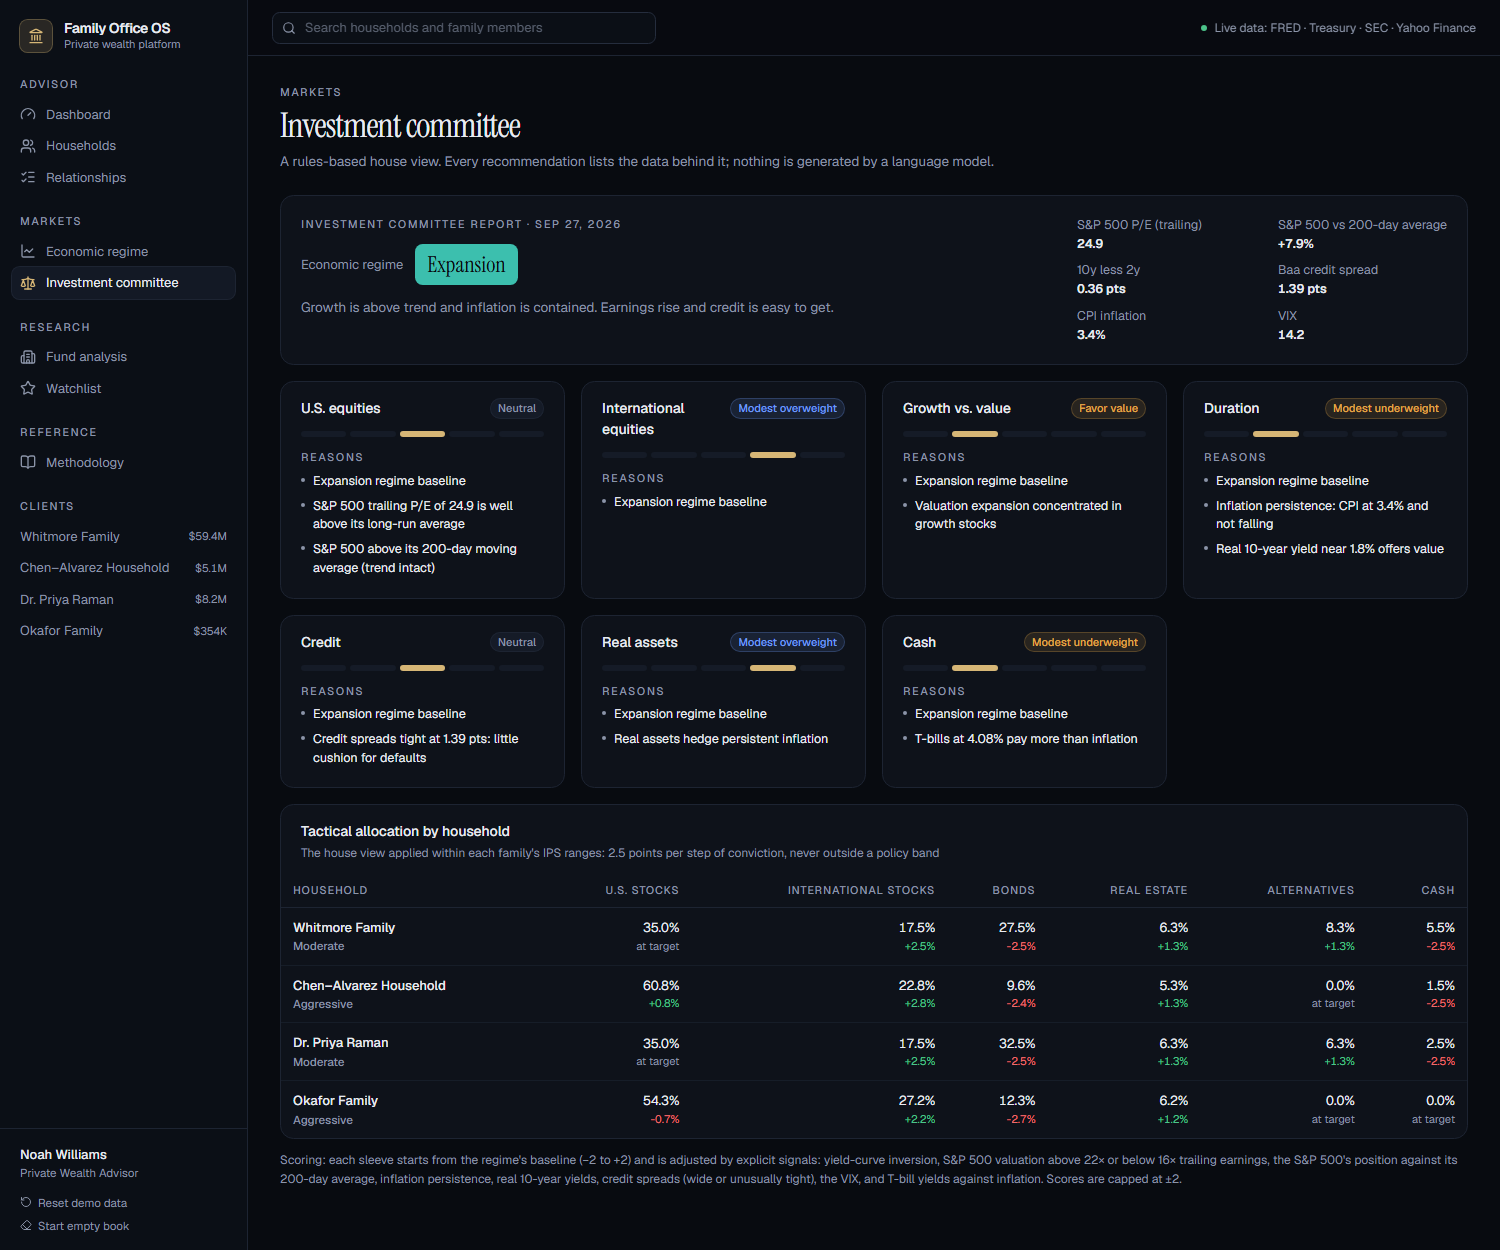
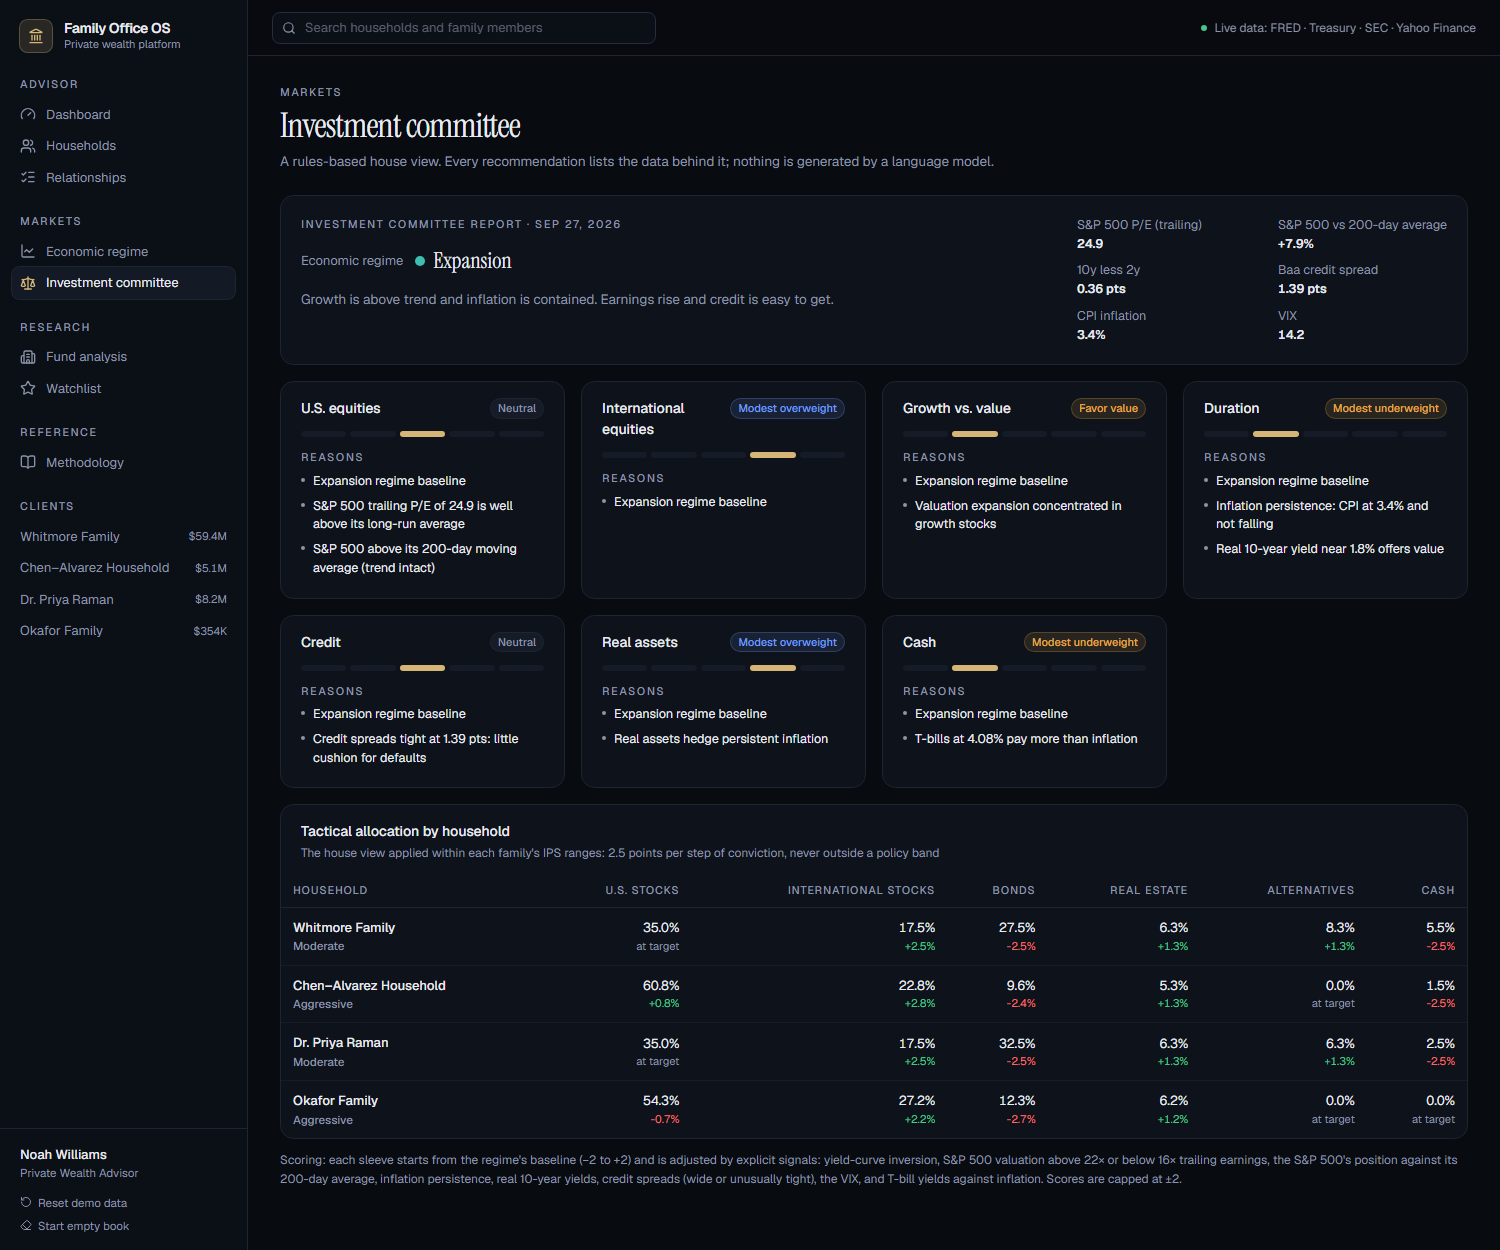
style: tone down regime badge, tighten markets page

Changed region(s): [[0.184, 0.1872, 0.552, 0.2496]]

diff --git a/app/markets/page.tsx b/app/markets/page.tsx
@@ -1,11 +1,19 @@
 "use client";
 import { useMemo } from "react";
-import { KV, Loading, Note, PageHeader, Panel, Stat } from "@/components/kit";
+import { KV, Loading, Note, PageHeader, Panel } from "@/components/kit";
 import Plot from "@/components/Plot";
 import { C, macroLines, yieldCurve } from "@/lib/charts";
 import { useMacro } from "@/lib/data";
-import { date, today } from "@/lib/format";
+import { today } from "@/lib/format";
 import { classify, history, IMPLICATIONS, REGIME_COLOR, type Regime } from "@/lib/regime";
+
+/** 12-month sparkline for an indicator row. */
+function Trend({ values }: { values: number[] }) {
+  if (values.length < 4) return null;
+  const w = 90, h = 20, lo = Math.min(...values), hi = Math.max(...values);
+  const pts = values.map((v, i) => `${((i / (values.length - 1)) * w).toFixed(1)},${(h - 2 - ((v - lo) / (hi - lo || 1)) * (h - 4)).toFixed(1)}`).join(" ");
+  return <svg width={w} height={h} aria-hidden="true"><polyline fill="none" stroke="var(--c1)" strokeWidth={1.3} points={pts} /></svg>;
+}
 
 export default function Markets() {
   const { data: m, error } = useMacro();
@@ -13,10 +21,18 @@ export default function Markets() {
   const now = useMemo(() => (m?.available ? classify(s, today()) : null), [m, s]);
   const past = useMemo(() => (m?.available ? history(s) : []), [m, s]);
   const imp = now ? IMPLICATIONS[now.regime] : null;
-  const kpi = (id: string, label: string) => {
-    const x = s[id];
-    return <Stat key={id} label={label} value={x?.latest ? `${x.latest[1].toFixed(2)}%` : "—"} sub={x?.latest ? `${x.chg1y != null ? `${x.chg1y >= 0 ? "+" : ""}${x.chg1y.toFixed(2)} pts vs 1 yr · ` : ""}${date(x.latest[0])}` : undefined} />;
-  };
+  // How long the current classification has held, from the quarterly history.
+  const since = useMemo(() => {
+    if (!past.length) return null;
+    const cur = past[past.length - 1].regime;
+    let k = past.length - 1;
+    while (k > 0 && past[k - 1].regime === cur) k--;
+    return new Date(past[k].date + "T12:00:00").toLocaleDateString("en-US", { month: "short", year: "numeric" });
+  }, [past]);
+  const INDICATORS: [string, string, string][] = [
+    ["CPIAUCSL", "CPI inflation", "y/y"], ["A191RL1Q225SBEA", "Real GDP growth", "annualized"], ["UNRATE", "Unemployment", ""],
+    ["DFF", "Fed funds", "effective"], ["DGS10", "10-year Treasury", ""], ["MORTGAGE30US", "30-year mortgage", "Freddie Mac"],
+  ];
   const fredError = Object.values(s).find((x) => x.error)?.error;
 
   return (
@@ -26,29 +42,34 @@ export default function Markets() {
       {(error || (m && !m.available)) && <Panel title="Economic data unavailable"><p className="text-[13px] text-muted-foreground">{m && !m.keyConfigured ? "Set FRED_API_KEY in .env.local or the Vercel project settings. Keys are free at fred.stlouisfed.org." : error ?? fredError ?? "FRED did not respond. Try again shortly."}</p></Panel>}
       {now && imp && (
         <>
-          <div className="grid gap-4 xl:grid-cols-[minmax(0,1fr)_minmax(0,1fr)]">
-            <Panel title="Current regime" sub="Rules-based classification, updated as each series is published">
-              <div className="flex flex-wrap items-center gap-4">
-                <span className="rounded-lg px-4 py-2 font-serif text-[30px] leading-none text-background" style={{ background: REGIME_COLOR[now.regime] }}>{now.regime}</span>
-                <p className="max-w-md text-[13.5px] text-muted-foreground">{imp.summary}</p>
+          <div className="grid items-start gap-4 xl:grid-cols-[minmax(0,1.1fr)_minmax(0,0.9fr)]">
+            <Panel title="Current regime" sub="Rules-based, updated as each FRED series is published">
+              <div className="flex items-baseline gap-3">
+                <span className="size-2.5 translate-y-[-2px] rounded-full" style={{ background: REGIME_COLOR[now.regime] }} />
+                <span className="font-serif text-[24px] leading-none">{now.regime}</span>
+                {since && <span className="text-[12.5px] text-muted-foreground">since {since}</span>}
               </div>
-              <ul className="mt-4 list-disc space-y-1 pl-5 text-[13px]">{now.reasons.map((r) => <li key={r}>{r.charAt(0).toUpperCase() + r.slice(1)}.</li>)}</ul>
+              <p className="mt-3 max-w-[58ch] text-[13.5px] leading-relaxed text-muted-foreground">{imp.summary}</p>
+              <div className="eyebrow mt-5 mb-1.5">Signals</div>
+              <ul className="space-y-1 text-[13px] leading-relaxed">{now.reasons.map((r) => <li key={r} className="flex gap-2"><span className="text-muted-foreground">–</span>{r.charAt(0).toUpperCase() + r.slice(1)}</li>)}</ul>
               <KV className="mt-4" rows={[
-                ["Real GDP growth (annualized)", now.gdp != null ? `${now.gdp.toFixed(1)}%` : "—"], ["CPI inflation (year over year)", now.cpi != null ? `${now.cpi.toFixed(1)}%` : "—"],
-                ["Unemployment", now.unemp != null ? `${now.unemp.toFixed(1)}%` : "—"], ["Sahm rule reading", now.sahm != null ? `${now.sahm >= 0 ? "+" : ""}${now.sahm.toFixed(2)} pts (0.50 signals recession)` : "—"],
-                ["10-year less 2-year Treasury", now.curve != null ? `${now.curve.toFixed(2)} pts${now.curve < 0 ? " (inverted)" : ""}` : "—"],
+                ["Real GDP growth, annualized", now.gdp != null ? `${now.gdp.toFixed(1)}%` : "—"], ["CPI inflation, y/y", now.cpi != null ? `${now.cpi.toFixed(1)}%` : "—"],
+                ["Unemployment", now.unemp != null ? `${now.unemp.toFixed(1)}%` : "—"], ["Sahm rule reading", now.sahm != null ? <span key="s">{now.sahm >= 0 ? "+" : ""}{now.sahm.toFixed(2)} pts <span className="text-muted-foreground">(recession at 0.50)</span></span> : "—"],
+                ["10-year less 2-year", now.curve != null ? `${now.curve.toFixed(2)} pts${now.curve < 0 ? " (inverted)" : ""}` : "—"],
               ]} />
             </Panel>
-            <Panel title="What it means for portfolios" sub={`Typical positioning in ${now.regime.toLowerCase()}`}>
-              <table className="grid-table">
-                <tbody>
-                  {([["Equities", imp.equities], ["Bonds", imp.bonds], ["Real assets", imp.real], ["Cash", imp.cash]] as const).map(([k, v]) => <tr key={k}><td className="w-28 font-medium">{k}</td><td className="text-muted-foreground">{v}</td></tr>)}
-                </tbody>
-              </table>
-              <div className="mt-5 eyebrow">All regimes</div>
-              <ul className="mt-2 space-y-2 text-[12.5px]">
-                {(Object.keys(IMPLICATIONS) as Regime[]).map((r) => <li key={r} className="flex gap-2.5"><span className="mt-1.5 size-2 shrink-0 rounded-full" style={{ background: REGIME_COLOR[r] }} /><span><b className="font-medium">{r}.</b> <span className="text-muted-foreground">{IMPLICATIONS[r].summary}</span></span></li>)}
-              </ul>
+            <Panel title="Portfolio implications" sub={`Typical positioning in ${now.regime.toLowerCase()}`}>
+              <dl className="divide-y divide-border/70 text-[13px]">
+                {([["Equities", imp.equities], ["Bonds", imp.bonds], ["Real assets", imp.real], ["Cash", imp.cash]] as const).map(([k, v]) => (
+                  <div key={k} className="grid grid-cols-[96px_1fr] gap-3 py-2.5"><dt className="font-medium">{k}</dt><dd className="leading-relaxed text-muted-foreground">{v}</dd></div>
+                ))}
+              </dl>
+              <details className="group mt-4 text-[12.5px]">
+                <summary className="cursor-pointer text-gold select-none hover:underline">How each regime is defined</summary>
+                <ul className="mt-3 space-y-2.5">
+                  {(Object.keys(IMPLICATIONS) as Regime[]).map((r) => <li key={r} className="grid grid-cols-[14px_1fr] gap-1.5 leading-relaxed"><span className="mt-1.5 size-2 rounded-full" style={{ background: REGIME_COLOR[r] }} /><span><span className="font-medium">{r}.</span> <span className="text-muted-foreground">{IMPLICATIONS[r].summary}</span></span></li>)}
+                </ul>
+              </details>
             </Panel>
           </div>
 
@@ -63,13 +84,30 @@ export default function Markets() {
       )}
       {m?.available && (
         <>
-          <div className="mt-4 grid gap-4 sm:grid-cols-3 xl:grid-cols-6">
-            {kpi("CPIAUCSL", "CPI inflation")}{kpi("A191RL1Q225SBEA", "Real GDP growth")}{kpi("UNRATE", "Unemployment")}
-            {kpi("DFF", "Fed funds")}{kpi("DGS10", "10-year Treasury")}{kpi("MORTGAGE30US", "30-year mortgage")}
+          <div className="mt-4 grid gap-4 xl:grid-cols-[minmax(0,1fr)_minmax(0,1.1fr)]">
+            <Panel title="Indicators" sub="Latest FRED readings" pad={false}>
+              <table className="grid-table">
+                <thead><tr><th>Series</th><th className="r">Latest</th><th className="r">1-yr chg</th><th>12 months</th><th className="r">As of</th></tr></thead>
+                <tbody>
+                  {INDICATORS.map(([id, label, note]) => {
+                    const x = s[id], from = x?.latest ? `${Number(x.latest[0].slice(0, 4)) - 1}${x.latest[0].slice(4)}` : "", pts = (x?.obs ?? []).filter((o) => o[0] >= from).map((o) => o[1]);
+                    return (
+                      <tr key={id}>
+                        <td>{label}{note && <span className="ml-1.5 text-[11.5px] text-muted-foreground">{note}</span>}</td>
+                        <td className="r font-medium">{x?.latest ? `${x.latest[1].toFixed(2)}%` : "—"}</td>
+                        <td className="r text-muted-foreground">{x?.chg1y != null ? `${x.chg1y >= 0 ? "+" : ""}${x.chg1y.toFixed(2)}` : "—"}</td>
+                        <td><Trend values={pts} /></td>
+                        <td className="r text-[12px] whitespace-nowrap text-muted-foreground">{x?.latest ? new Date(x.latest[0] + "T12:00:00").toLocaleDateString("en-US", { month: "short", day: "numeric" }) : ""}</td>
+                      </tr>
+                    );
+                  })}
+                </tbody>
+              </table>
+            </Panel>
+            <Panel title="Treasury yield curve" sub="Daily par yields, U.S. Department of the Treasury">{m.curve && <Plot fig={yieldCurve(m.curve)} height={270} />}</Panel>
           </div>
-          <div className="mt-4 grid gap-4 xl:grid-cols-2">
-            <Panel title="Treasury yield curve" sub="Daily par yields, U.S. Department of the Treasury">{m.curve && <Plot fig={yieldCurve(m.curve)} height={290} />}</Panel>
-            <Panel title="Policy and market rates"><Plot fig={macroLines(s, [["DFF", "Fed funds", C.c3], ["DGS2", "2-year", C.c2], ["DGS10", "10-year", C.c1], ["MORTGAGE30US", "30-year mortgage", C.c5]])} height={290} /></Panel>
+          <div className="mt-4">
+            <Panel title="Policy and market rates"><Plot fig={macroLines(s, [["DFF", "Fed funds", C.c3], ["DGS2", "2-year", C.c2], ["DGS10", "10-year", C.c1], ["MORTGAGE30US", "30-year mortgage", C.c5]])} height={260} /></Panel>
           </div>
           <div className="mt-4 grid gap-4 xl:grid-cols-3">
             <Panel title="Growth and inflation"><Plot fig={macroLines(s, [["A191RL1Q225SBEA", "Real GDP growth", C.c1], ["CPIAUCSL", "CPI inflation", C.c4], ["UNRATE", "Unemployment", C.c2]])} height={260} /></Panel>

diff --git a/app/page.tsx b/app/page.tsx
@@ -162,8 +162,8 @@ export default function Dashboard() {
           {!macro ? <Loading label="Loading FRED data" /> : !reading ? <p className="text-[13px] text-muted-foreground">FRED data unavailable. Add FRED_API_KEY to enable.</p> : (
             <>
               <div className="flex items-center gap-3">
-                <span className="rounded-md px-2.5 py-1 text-[15px] font-semibold text-background" style={{ background: REGIME_COLOR[reading.regime] }}>{reading.regime}</span>
-                <span className="text-[12.5px] text-muted-foreground">{reading.reasons[0]}</span>
+                <span className="flex items-center gap-2 text-[15px] font-medium"><span className="size-2 rounded-full" style={{ background: REGIME_COLOR[reading.regime] }} />{reading.regime}</span>
+                <span className="truncate text-[12.5px] text-muted-foreground" title={reading.reasons.join("; ")}>{reading.reasons[0]}</span>
               </div>
               <table className="mt-3 w-full text-[12.5px]">
                 <thead><tr className="text-[10.5px] tracking-wider text-muted-foreground uppercase"><th className="pb-1 text-left font-medium">Indicator</th><th className="pb-1 text-right font-medium">Latest</th><th className="pb-1 text-right font-medium">1-yr chg</th><th className="pb-1 text-right font-medium">As of</th></tr></thead>

diff --git a/app/committee/page.tsx b/app/committee/page.tsx
@@ -40,7 +40,7 @@ export default function Committee() {
             <div className="flex flex-wrap items-start justify-between gap-6">
               <div>
                 <div className="eyebrow">Investment committee report · {date(today())}</div>
-                <div className="mt-3 flex items-center gap-3"><span className="text-[13px] text-muted-foreground">Economic regime</span><span className="rounded-md px-3 py-1 font-serif text-[22px] text-background" style={{ background: REGIME_COLOR[ic.regime] }}>{ic.regime}</span></div>
+                <div className="mt-3 flex items-center gap-3"><span className="text-[13px] text-muted-foreground">Economic regime</span><span className="flex items-center gap-2 font-serif text-[22px]"><span className="size-2.5 rounded-full" style={{ background: REGIME_COLOR[ic.regime] }} />{ic.regime}</span></div>
                 <p className="mt-3 max-w-2xl text-[13.5px] text-muted-foreground">{IMPLICATIONS[ic.regime].summary}</p>
               </div>
               <div className="grid grid-cols-2 gap-x-8 gap-y-2 text-[12.5px]">
